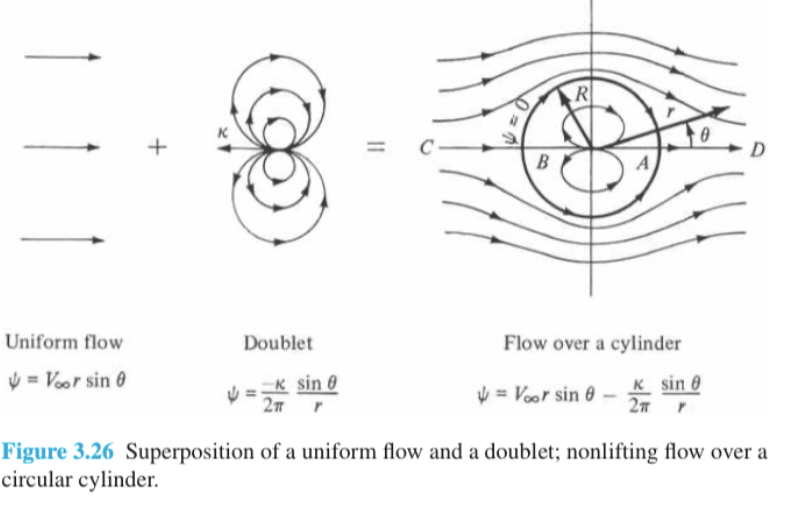
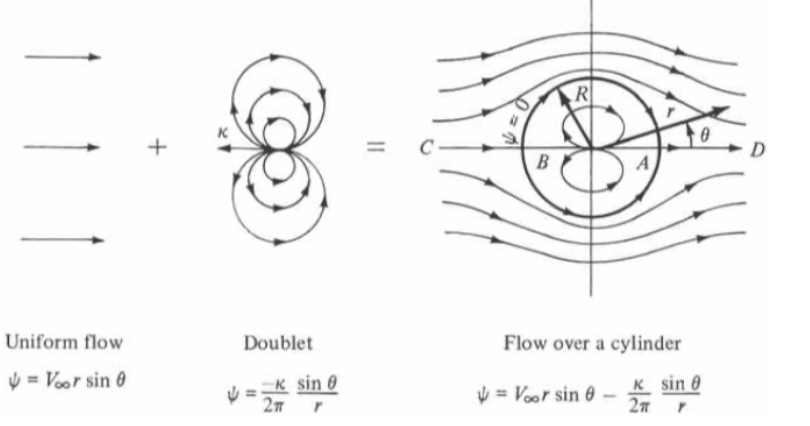
feat(report): add citation for anderson flow modeling

diff --git a/reports/main.tex b/reports/main.tex
@@ -11,6 +11,8 @@
 \fancyheadwidth[C]{0.0\headwidth}
 \fancyheadwidth[R]{0.5\headwidth}
 
+\hypersetup{hidelinks}
+
 %
 % Homework Details
 %   - Title
@@ -94,13 +96,12 @@ If \(\nabla \times \vec{V} = 0\), then a \textit{velocity potential} \(\phi\) ex
     + \frac{\partial^2 \phi}{\partial z^2} = 0 \right).
 \]
 
-In order to model flow over a 2D cylinder, we use an approach presented in Anderson's Fundamentals of 
-Aerodynamics, which uses a superposition of a uniform flow and a doublet flow, as presented in the figure below:
+In order to model flow over a 2D cylinder, we use an approach presented in \cite{danderson2023fundamentals}, which uses a superposition of a uniform flow and a doublet flow, as presented in the figure below:
 
-\begin{figure}[h!]
+\begin{figure}[H]
     \centering
-    \includegraphics[width=0.95\linewidth]{../assets/flow_superposition.png}
-    \caption{Superposition of uniform flow and a doublet to model nonlifting potential flow over a circular cylinder.}
+    \includegraphics[width=0.65\linewidth]{../assets/flow_superposition.png}
+    \caption{Superposition of uniform flow and a doublet to model nonlifting potential flow over a circular cylinder \cite{danderson2023fundamentals}.}
     \label{fig:flow_superposition}
 \end{figure}
 
